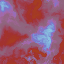
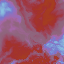
art: tune nested warp movement

diff --git a/internal/sketch/warp/warp.go b/internal/sketch/warp/warp.go
@@ -61,11 +61,11 @@ type Sketch struct {
 // New returns warp configured for a moderately folded nested field.
 func New() *Sketch {
 	s := &Sketch{
-		Scale:          2.2,
+		Scale:          1.65,
 		Gain:           0.5,
 		Lacunarity:     2,
-		WarpStrength:   2.2,
-		NestedStrength: 2.8,
+		WarpStrength:   3,
+		NestedStrength: 4,
 		Octaves:        5,
 		warpName:       "nested",
 		appearanceName: "gradient",
@@ -167,7 +167,7 @@ func (s *Sketch) Render(ctx sketch.Context) (image.Image, error) {
 func (p plan) sample(u, v float64) fieldSample {
 	x, y := u*p.set.scale, v*p.set.scale
 	activityField := p.activity.At(u*0.65+17.3, v*0.65-9.7)
-	activity := 0.25 + 0.95*mathx.Smoothstep(-0.4, 0.4, activityField)
+	activity := 0.12 + 1.28*mathx.Smoothstep(-0.4, 0.4, activityField)
 
 	qx := p.fbm(p.q[0], x+3.1, y-7.9)
 	qy := p.fbm(p.q[1], x-5.3, y+11.7)

diff --git a/docs/sketches/013-warp.md b/docs/sketches/013-warp.md
@@ -68,8 +68,8 @@ by luminance before building their ramps.
 - `--appearance gradient|structure`: palette mapping.
 
 The defaults target useful preview iteration: nested mode with gradient
-appearance, moderate base scale, five octaves, and enough displacement for the
-broad activity envelope to separate calm and folded passages.
+appearance, a low base scale, five octaves, and strong displacement modulated
+from near-calm to turbulent by the broad activity envelope.
 
 ## Determinism And Resolution
 
